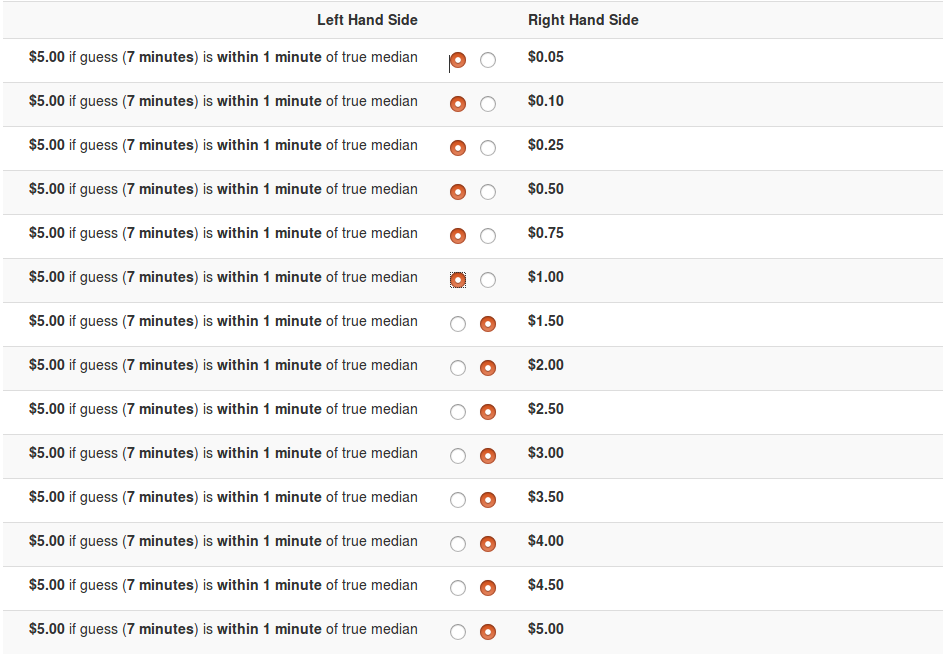
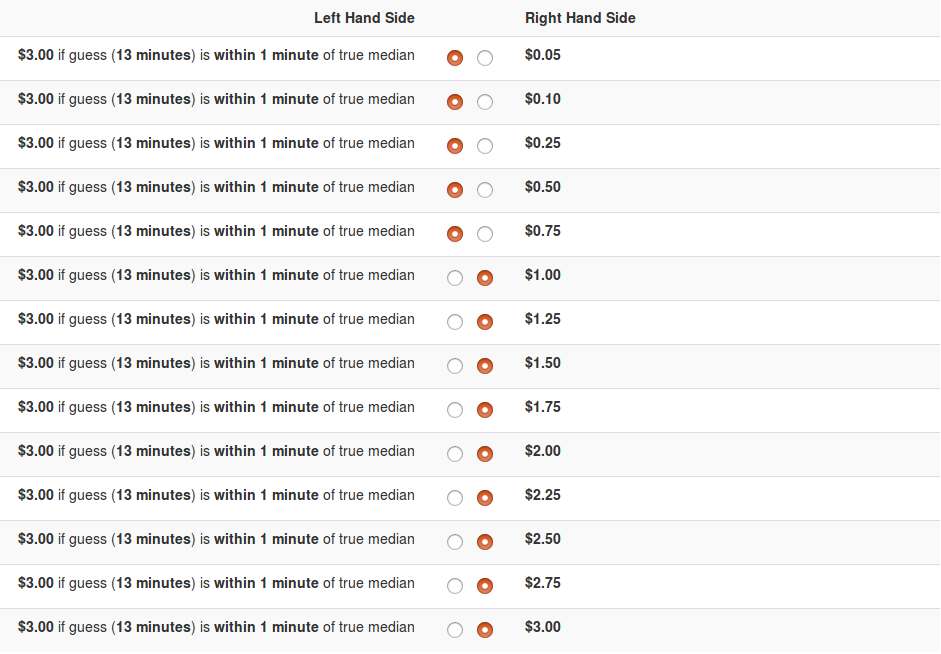
sendout

diff --git a/conformity/templates/conformity/IRB.html b/conformity/templates/conformity/IRB.html
@@ -8,6 +8,12 @@ IRB regulatory information
 
 {% block content %}
 
+
+<!-- 	<p style="font-size:20px">
+	<b>IRB regulatory information</b>
+ 	</p>
+ -->
+
 	<p style="font-size:10px">
 	<b>Protocol Director:</b> Professor B. Douglas Bernheim
 	</p>
@@ -20,58 +26,33 @@ IRB regulatory information
 	Expiration Date: YYYY </p>
 
 	<p style="font-size:10px">
-	You are invited to take part in a research study. This is not a form of treatment or therapy. It is not supposed to detect a disease or find something wrong. Your participation is voluntary which means you can choose whether or not to participate. If you decide to participate or not to participate there will be no loss of benefits to which you are otherwise entitled. Before you make a decision you will need to know the purpose of the study, the possible risks and benefits of being in the study and what you will have to do if decide to participate. The researcher is available by email to talk with you about the study and give you this consent document to read.
+	<b>DESCRIPTION:</b> You are invited to participate in a research study on decision-making. You will be asked to read several pages of instructions. Then you will be asked to make several choices that will determine the precise amount you will be paid, and then possibly answer several survey questions.
 	</p>
 
 	<p style="font-size:10px">
-	Please do not continue with the study if you do not understand this consent information. Please ask the researcher to explain anything you do not understand, including any language contained in this form. If you decide to participate, you will be asked to continue with the study after reading this form and your continuation will indicate your consent.
+	<b>RISKS AND BENEFITS:</b> We cannot and do not guarantee or promise that you will receive any benefits from this study. There are no risks associated with this study.
 	</p>
 
 	<p style="font-size:10px">
-	<b> What is the purpose of this research?</b><br>
-	</b>
-
-	The purpose of the study is to better understand how people make decisions.
+	<b>TIME INVOLVEMENT:</b> Your participation in this experiment will take approximately as long as is indicated in the advertisement.
 	</p>
 
 	<p style="font-size:10px">
-	<b>How long will I take part in this research?</b><br>
-
-	This survey will take as long as advertised in the task description.
+	<b>PAYMENTS:</b>	You will be compensated at the advertised rate. 
 	</p>
 
 	<p style="font-size:10px">
-	<b>What can I expect if I take part in this research?</b><br>
-
-	As a participant, you will be asked to answer a series of questions. Additional information will be provided to you during your study participation.
-	We cannot and do not guarantee or promise that you will receive any benefits from this study.
+	<b>SUBJECT'S RIGHTS:</b> If you have read this form and have decided to participate in this project, please understand your participation is voluntary and you have the right to discontinue participation at any time without penalty or loss of benefits to which you are otherwise entitled. You have the right to refuse to answer particular questions. Your individual privacy will be maintained in all published and written data resulting from the study.
 	</p>
 
 	<p style="font-size:10px">
-	<b>What are the risks and possible discomforts?</b><br>
+	<b>CONTACT INFORMATION:</b> <br>
 
-	There are no anticipated risks associated with the study. Please note that you do not have to answer any questions you feel uncomfortable with. You are free to withdraw from the study at any point in time if you choose to do so.
+	Questions, Concerns, or Complaints: If you have any questions, concerns or complaints about this research study, its procedures, risks and benefits, you should ask the Protocol Director, Douglas Bernheim, (650) 725-8732. <br>
+
+	Independent Contact: If you are not satisfied with how this study is being conducted, or if you have any concerns, complaints, or general questions about the research or your rights as a participant, please contact the Stanford Institutional Review Board (IRB) to speak to someone independent of the research team at (650)-723-2480 or toll free at 1-866-680-2906. You can also write to the Stanford IRB, Stanford University, Stanford, CA 94305-5401.
 	</p>
 
-	<p style="font-size:10px">
-	<b>Will I be compensated for participating in this research?</b> <br>
-
-	You will be compensated at the advertised rate.
-	</p>
-
-	<p style="font-size:10px">
-	<b>If I take part in this research, how will my privacy be protected? What happens to the information you collect?</b><br>
-
-	The data we collect will not include any personal or sensitive information. In addition, it will not be identified with your name, but only with a participant number. The data will eventually be used for publication in research journals and presentations at scientific conferences. At such time, the data will be presented in aggregate, and individual participants will never be discussed.
-	</p>
-
-	<p style="font-size:10px">
-	<b>Who can I call with questions, complaints or if I'm concerned about my rights as a research subject?</b><br>
-	 
-	If you have any questions, concerns or complaints about this research, its procedures, risks and benefits, contact the protocol director.
-	 
-	If you are not satisfied with how this study is being conducted, or if you have any concerns, complaints, or general questions about the research or your rights as a participant, please contact the Stanford Institutional Review Board (IRB) to speak to someone independent of the research team at (650)-723-2480 or toll free at 1-866-680-2906, or email at IRB2-Manager@lists.stanford.edu.  You can also write to the Stanford IRB, Stanford University, 3000 El Camino Real, Five Palo Alto Square, 4th Floor, Palo Alto, CA 94306.
-	</p>
 
 	<p style="font-size:10px">
 
@@ -80,6 +61,6 @@ IRB regulatory information
 	Please make a copy of this consent form for your own records. You can do so by right-clicking and selecting "print" in most browsers. If you cannot do so on your browser, please contact the protocol director for a copy of the consent form.
 	</p>
 
-    {% next_button %}
+{% next_button %}
 
 {% endblock %}

diff --git a/conformity/templates/conformity/instructions.html b/conformity/templates/conformity/instructions.html
@@ -21,7 +21,7 @@ Children search the depths of their imagination when they wish to be someone for
 <b>I wish to meet:</b><br>
 Many want to meet their favorite athlete, recording artist, television personality, movie star, politician or public figure.<br>
 <b>I wish to have:</b><br>
-Children often wish for a special gift, such as a computer, a tree house, a shopping spree or something that they have coveted for a long time.”<br>
+Children often wish for a special gift, such as a computer, a tree house, a shopping spree or something that they have coveted for a long time.<br>
 </p>
 
 <p>
@@ -53,14 +53,17 @@ Note that the longer you choose to stay in the selected round (i.e., the higher 
 For instance, if you choose Y = 3, then you will have to stay 3 minutes and Make-A-Wish Foundation will receive the corresponding donation.   Or, if you choose Y = 6 minutes, then you will have to stay 6 minutes and Make-A-Wish Foundation will receive the corresponding donation. 
 </p>
 
-<p>
+<p><b> Additional Bonus Payments: </b> <br> 
+In each round, after you make your effort decision, you will answer two further questions. You should answer each question carefully, as one of the two questions in one of the rounds will be selected at random, and you may earn a bonus payment for this question, depending on your answer.  Read on for more information about these two questions:
+</p>
+
 <b>State Belief on Others' Decisions</b><br>
 In each round, on the same screen that you make your above decisions, you will also be asked your belief about others' decisions.   In particular, you will be asked: 
 “What is the MEDIAN number of minutes YOU BELIEVE others (excluding you) will stay and earn money for Make-A-Wish Foundation, when any money one earns will be directed towards helping children in [NAME OF CITY]?”   
 </p>
 
 <p>
-If you correctly state the median number of minutes that others (excluding you) chose in the randomly selected round, then you will receive an ADDITIONAL bonus payment of $3.   Thus, it is in your interest to carefully guess the median number of minutes that other people chose to the best of your ability.   Note that your own decision will NOT impact this median that you are trying to guess. 
+If you correctly state the median number of minutes that others (excluding you) chose in the randomly selected round and the computer chooses this question, then you will receive an ADDITIONAL bonus payment of {{Constants.bonus}}.   Thus, it is in your interest to carefully guess the median number of minutes that other people chose to the best of your ability.   Note that your own decision will NOT impact this median that you are trying to guess. 
 </p>
 
 <b>State Confidence in the Belief on Others' Decisions</b><br>
@@ -74,10 +77,12 @@ In each round, on the screen after you make your guess about <b>others'</b> medi
 
 
 <p>
-For the randomly selected round, the computer will also randomly select one of the decisions you made and will implement it. That means, the computer will randomly choose one of the rows and check what you have chosen for this row: if you have chosen the left hand side, we will pay you {{Constantsn.confidenceBonus}} if your guess is within {{Constants.accuracy}} minute of the true median of everyone else's commitment in the randomly selected round. If you have chosen the right hand side, we will pay you what it states on the right hand side of the row in question. </p>
+For the randomly selected round, the computer will also randomly select one of the decisions you made and will implement it, if the computer chooses this question. That means, the computer will then randomly choose one of the rows and check what you have chosen for this row: if you have chosen the left hand side, we will pay you {{Constantsn.confidenceBonus}} if your guess is within {{Constants.accuracy}} minute of the true median of everyone else's commitment in the randomly selected round. If you have chosen the right hand side, we will pay you what it states on the right hand side of the row in question. </p>
 
 </p>Because any one row of any one round could be selected to count, you should treat all rows and all rounds as if they counted. This also means that it is in your best interest to think carefully about what amount of money is worth as much to you as the chance to win {{Constants.confidenceBonus}} <b>if</b> your guess was close enough to the truth. Note: because we will ask you about <b>others'</b> median choice, you cannot influence your likelihood of winning extra money by your decision of how many minutes to commit.
 </p>
+
+<p> <b> Note: </b> only ONE of the two questions for ONE of the {{Constants.num_rounds}} rounds will be selected and counted for payment! </p>
 
 <p>
 <b>Reminder:</b> The median represents the 50th percentile. That is, if you have a series of numbers and order them from the lowest to the highest, then the median is the number in the middle. For example, the median of {1,3,4,9,10} is 4.   

diff --git a/conformity/templates/conformity/include.html b/conformity/templates/conformity/include.html
@@ -4,7 +4,10 @@
 {% if Constants.public %}<li>At the start of every round after the first, you will be told the median number of minutes chosen by other subjects in the previous round.{% endif %}
 <li>{% if Constants.public %}At the end of all 10 rounds, one round will be chosen at random.  Everyone will reveal the number of minutes they decided to stay in that round to everyone else, by wearing nametags with that information, and by lining up in the front of the room from lowest to highest number of minutes.{% else %}Everyone's decisions about how long they chose to stay will remain anonymous.{% endif %}
 <li>One person will be chosen at random from the selected round, and their choice will be implemented: they will have to wait for the amount of time they indicated, and we will make the associated contribution to Make-A-Wish-Foundation.
-<li> You will decide between an extra bonus of {{Constants.confidenceBonus}} if your guess of the median commitment of all other players is within {{Constants.accuracy}} minute of the true median and a series of (smaller) bonus paid to you with certainty. 
+<li> You will answer the following two types of questions and you will be paid for one of them for one randomly chosen round: 
+<li> <ul>
+	<li> You will guess what the median number of minutes for the other participants is and will receive a bonus of {{Constants.bonus}} if you are correct.
+	<li> You will decide between an extra bonus of {{Constants.confidenceBonus}} if your guess of the median commitment of all other players is within {{Constants.accuracy}} minute of the true median and a series of (smaller) bonus paid to you with certainty. 
+</ul> 	
 <li> One round will be chosen to count for the extra bonuses - in this round, one of your decisions will be chosen at random and implemented.
-<li>You will receive a {{Constants.bonus}} bonus on top of your {{Constants.showup}} participation fee if, for the selected round, you guessed the median number of minutes for the other participants correctly and you may earn up to an extra {{Constants.confidenceBonus}} for your choice of confidence level.
 </ul>

diff --git a/conformity/templates/conformity/confidence.html b/conformity/templates/conformity/confidence.html
@@ -48,7 +48,7 @@ How confident are you in your guess?
 
     {{ form.errors }}
     <input type="hidden" name="confidence" id="switchpoint"
-           value="9999">
+           value="3.5">
            
     {% next_button %}
 

diff --git a/conformity/models.py b/conformity/models.py
@@ -43,10 +43,11 @@ class Constants(BaseConstants):
 ### Money
 	money = [c(3.72),c(5.72),c(6.72),c(7.67),c(8.57),c(9.42),c(10.22),c(10.97),c(11.67),c(12.32),c(12.92),c(13.47),c(13.97),c(14.42),c(14.82),c(15.17),c(15.47),c(15.72),c(15.92),c(16.07),c(16.17),c(16.26),c(16.34),c(16.41),c(16.47),c(16.52),c(16.56),c(16.59),c(16.61),c(16.62),c(16.62),c(16.63),c(16.63),c(16.63),c(16.64),c(16.64) ]
 	showup = c(20)
-	bonus = c(3)
-	confidenceBonus =c(5)
+	bonus = c(5)
+	bonusForConfidence = 3
+	confidenceBonus =c(bonusForConfidence)
 
-	r = np.linspace(1,5,9)
+	r = np.linspace(1,bonusForConfidence,9)
 	right_side_amounts = [c(0.05), c(0.10), c(0.25), c(0.50), c(0.75)] + [c(float(k)) for k in r]
 
 ### TIMER:
@@ -63,6 +64,9 @@ class Subsession(BaseSubsession):
 		self.session.vars["selectedPlayer"] = selectedPlayer
 
 		self.session.vars["selectedRound"] = random.randint(1, Constants.num_rounds)
+
+		selectedIncentive = random.randint(1,2)
+		self.session.vars["selectedIncentive"] = selectedIncentive
 
 
 class Group(BaseGroup):
@@ -84,8 +88,8 @@ class Player(BasePlayer):
 	truefalse7 = models.PositiveIntegerField(choices=[[0, 'The amount of time you chose to stay in the selected round.'],[1, 'The amount of time others chose to stay in the selected round'],[2, 'No additional time']],widget=widgets.RadioSelect(),verbose_name="If you ARE the selected participant, you will have to wait:")
 	truefalse8 = models.PositiveIntegerField(choices=[[0, 'The amount of time you chose to stay in the selected round.'],[1, 'The amount of time others chose to stay in the selected round'],[2, 'None of the above']],widget=widgets.RadioSelect(),verbose_name="If you ARE NOT the selected participant, your earnings for Make-A-Wish Foundation will depend on:")
 	truefalse9 = models.PositiveIntegerField(choices=[[0, 'The amount of time you chose to stay in the selected round.'],[1, 'The amount of time others chose to stay in the selected round'],[2, 'No additional time']],widget=widgets.RadioSelect(),verbose_name="If you ARE NOT the selected participant, you will have to wait:")
-	truefalse10 = models.PositiveIntegerField(verbose_name= "Look at the decision table below. Please enter how much money (in whole dollars) the participant will be paid if the true median is 12 minutes and row number 5 is implemented by the computer.")
-	truefalse11 = models.PositiveIntegerField(verbose_name= "Look at the decision table below. Please enter how much money (in whole dollars) the participant will be paid if the true median is 16 minutes and row number 12 is implemented by the computer.")
+	truefalse10 = models.PositiveIntegerField(verbose_name= "Look at the decision table below. Please enter how much money (in whole dollars) the participant will be paid if the true median is 12 minutes and row number 5 is implemented by the computer and this question is chosen for payment.")
+	truefalse11 = models.PositiveIntegerField(verbose_name= "Look at the decision table below. Please enter how much money (in whole dollars) the participant will be paid if the true median is 16 minutes and row number 10 is implemented by the computer and this question is chosen for payment.")
 
 ######## ACTUAL DATA COLLECTED
 	commitment = models.PositiveIntegerField(min=0,max=35)
@@ -142,21 +146,24 @@ class Player(BasePlayer):
 		medianInSelectedRound = self.participant.vars.get(nameM)
 		confidenceOfSelectedRound = self.participant.vars.get(nameC)
 
-
-		if beliefOfSelectedRound == medianInSelectedRound:
-			bonus1 = Constants.bonus
-		else:
-			bonus1 = c(0)
-
-		randomVar = random.randint(0,len(Constants.right_side_amounts))
-		if Constants.right_side_amounts[randomVar] <= confidenceOfSelectedRound:
-			if  beliefOfSelectedRound in ([medianInSelectedRound] + [medianInSelectedRound - k for k in range(1,Constants.accuracy+1)] + [medianInSelectedRound + k for k in range(1,Constants.accuracy+1)]):
-				bonus2 = Constants.confidenceBonus
-			else:
-				bonus2 = c(0)
-		else:
-			bonus2 = Constants.right_side_amounts[randomVar]
+		selectedIncentive = self.session.vars.get("selectedIncentive")
 		
+		if selectedIncentive == 1:
+			if beliefOfSelectedRound == medianInSelectedRound:
+				bonus1 = Constants.bonus
+			else:
+				bonus1 = c(0)
+			bonus2 = c(0)
+		elif selectedIncentive == 2:
+			randomVar = random.randint(0,len(Constants.right_side_amounts))
+			if Constants.right_side_amounts[randomVar] <= confidenceOfSelectedRound:
+				if  beliefOfSelectedRound in ([medianInSelectedRound] + [medianInSelectedRound - k for k in range(1,Constants.accuracy+1)] + [medianInSelectedRound + k for k in range(1,Constants.accuracy+1)]):
+					bonus2 = Constants.confidenceBonus
+				else:
+					bonus2 = c(0)
+			else:
+				bonus2 = Constants.right_side_amounts[randomVar]
+			bonus1 = c(0)
 		self.payoff = Constants.showup + bonus1 + bonus2
 		return self.payoff
 

diff --git a/conformity/views.py b/conformity/views.py
@@ -18,7 +18,7 @@ class instructions(Page):
 	def is_displayed(self):
 		return self.round_number == 1
 	def vars_for_template(self):
-		return {"min": Constants.right_side_amounts[0], "max": Constants.right_side_amounts[len(Constants.right_side_amounts)-1], "number": len(Constants.right_side_amounts)}
+		return { "min": Constants.right_side_amounts[0], "max": Constants.right_side_amounts[len(Constants.right_side_amounts)-1], "number": len(Constants.right_side_amounts)}
 
 class quizz(Page):
 	def is_displayed(self):
@@ -54,9 +54,9 @@ class quizz(Page):
 			summand += 1	
 		if values["truefalse9"] != 2:
 			summand += 1	
-		if values["truefalse10"] != 5:
+		if values["truefalse10"] != 3:
 			summand += 1	
-		if values["truefalse11"] != 4:
+		if values["truefalse11"] != 2:
 			summand += 1	
 		if summand > 1:	
 			return 'Sorry, you got ' + str(summand) + " questions wrong."
